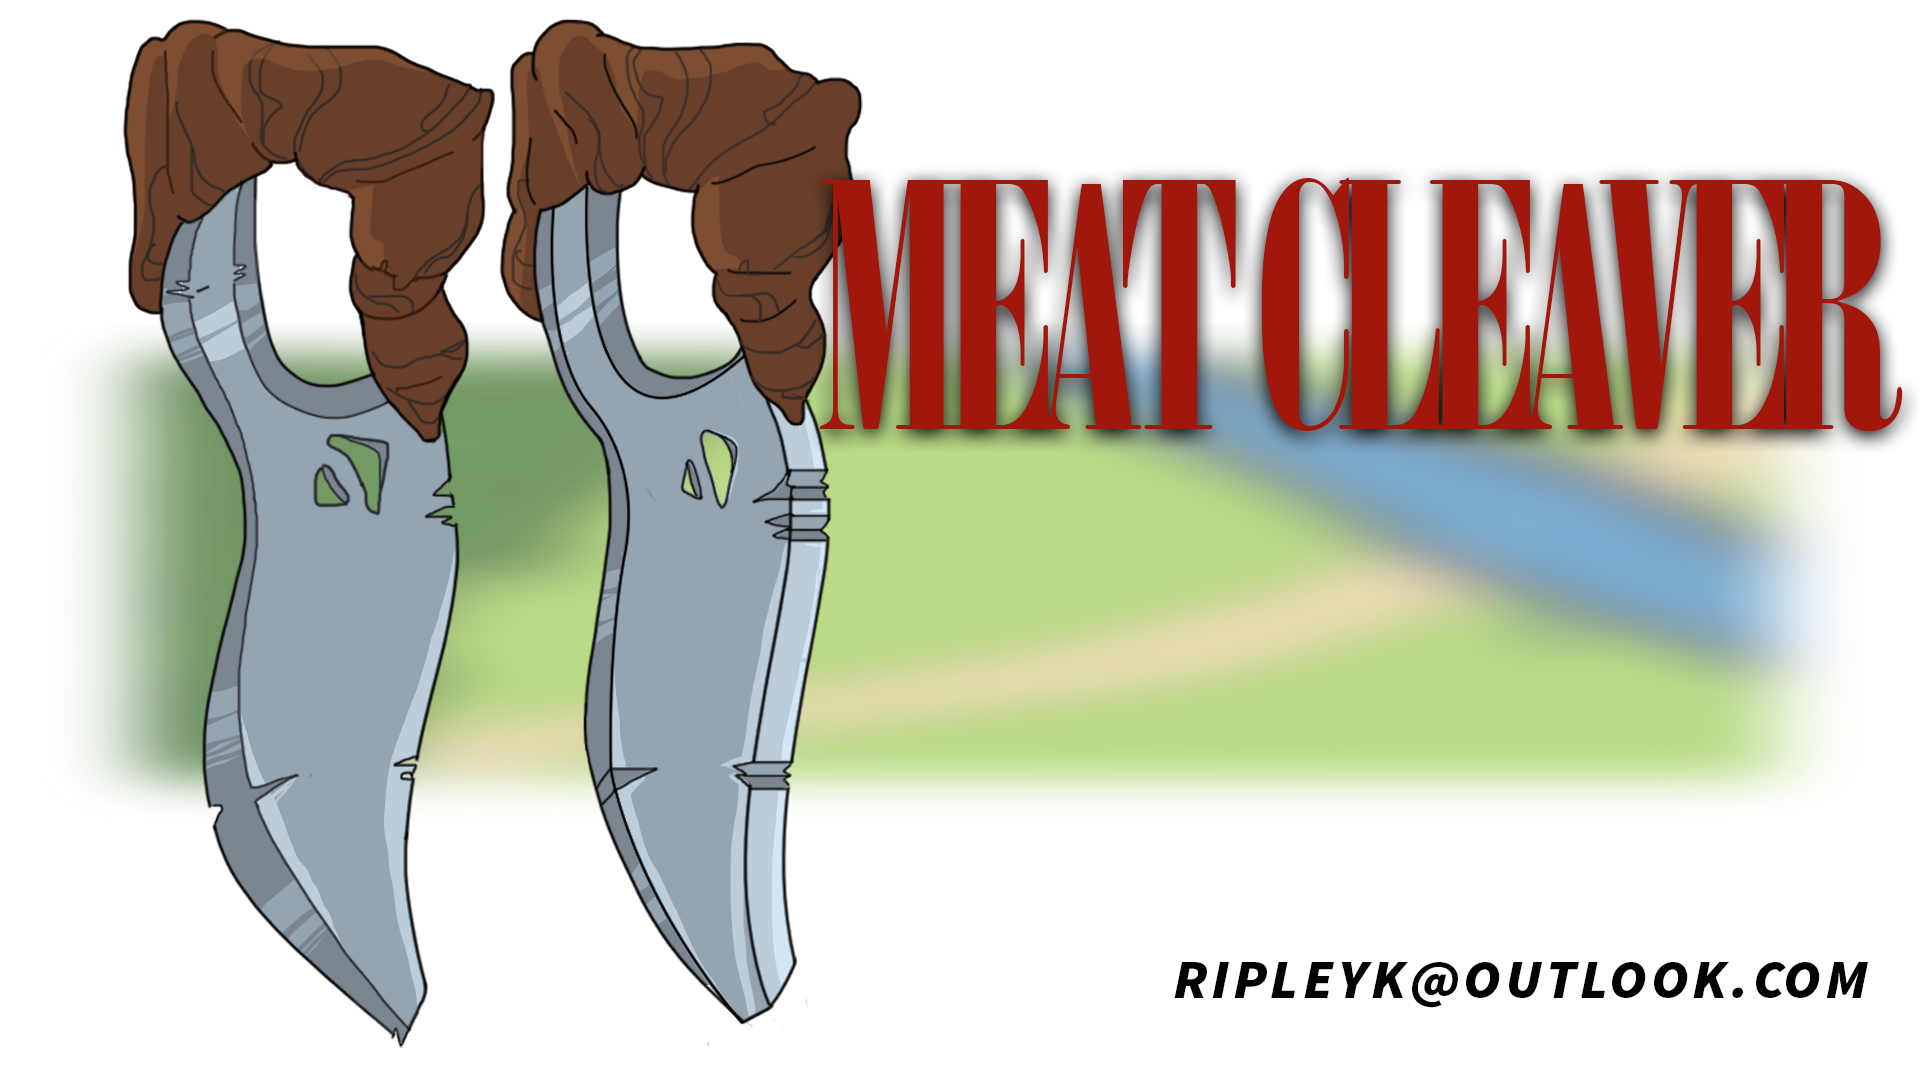
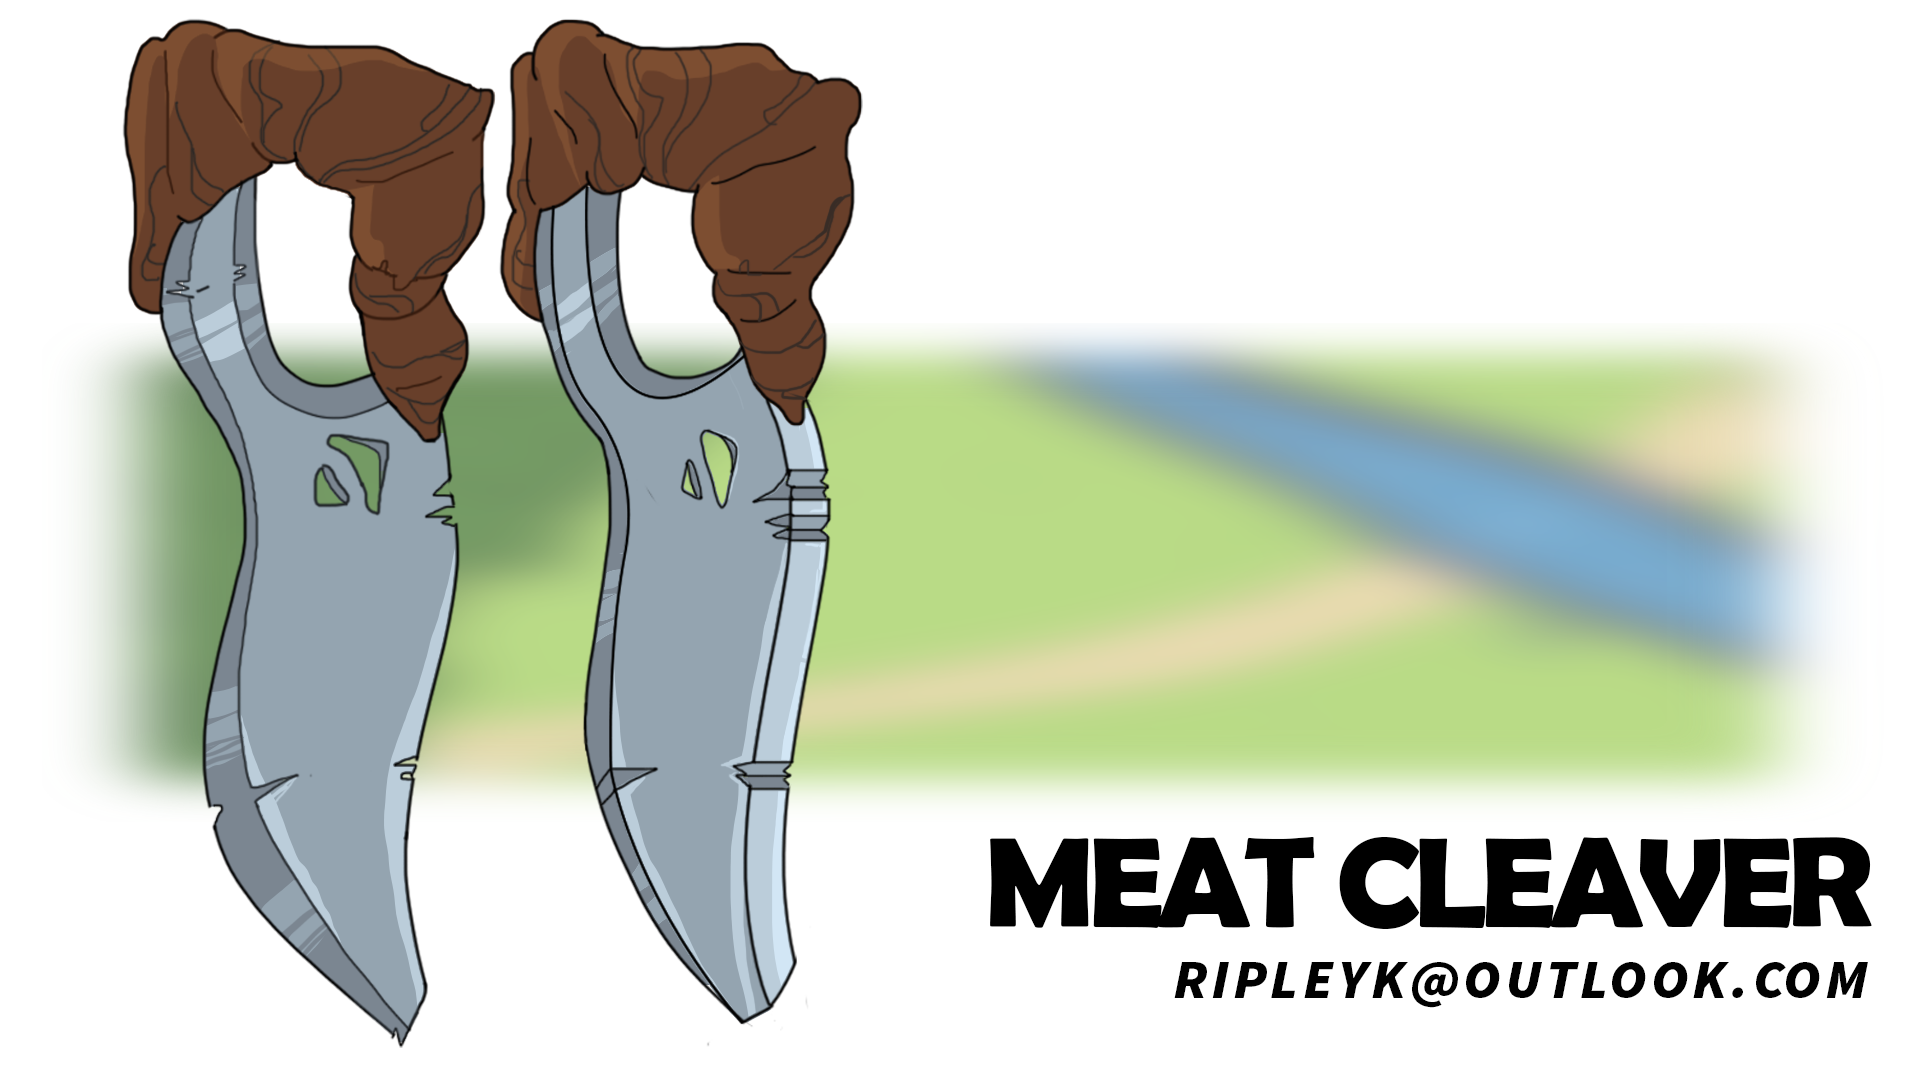
Adding tab titles/updating Portfolio
-added tab titles to each page
-added 3d model
-added muddy bus
-updated meatcleaver

Changed region(s): [[0.4062, 0.1528, 1.0, 0.4278], [0.5, 0.7639, 1.0, 0.8861]]

diff --git a/Ripley-bit/gallery.html b/Ripley-bit/gallery.html
@@ -1,6 +1,7 @@
 <!DOCTYPE html>
 <html lang="en" dir="ltr">
   <head>
+    <title>Ripley Portfolio Collection</title>
     <meta charset="utf-8">
     <meta name="viewport" content="width=device-width">
     <meta name="description" content="Lorem ipsum dolor sit amet, consectetur adipiscing elit, sed do eiusmod tempor incididunt ut labore et dolore magna aliqua. Ut enim ad minim veniam, quis nostrud exercitation ullamco laboris nisi ut aliquip ex ea commodo consequat. "

diff --git a/index.html b/index.html
@@ -1,6 +1,7 @@
 <!DOCTYPE html>
 <html lang="en" dir="ltr">
   <head>
+    <title>Ripley Artwork Professional Portfolio</title>
     <meta charset="utf-8">
     <meta name="viewport" content="width=device-width">
     <meta name="description" content="Ripley's portfolio page"

diff --git a/Ripley-bit/resume.html b/Ripley-bit/resume.html
@@ -1,6 +1,7 @@
 <!DOCTYPE html>
 <html lang="en" dir="ltr">
   <head>
+    <title>Ripley Resume Accomplishments </title>
     <meta charset="utf-8">
     <meta name="viewport" content="width=device-width">
     <meta name="description" content="About page"

diff --git a/Ripley-bit/FULLCREDITLIST.HTML b/Ripley-bit/FULLCREDITLIST.HTML
@@ -1,6 +1,7 @@
 <!DOCTYPE html>
 <html lang="en" dir="ltr">
   <head>
+     <title>Ripley Full Credit</title>
     <meta charset="utf-8">
     <meta name="viewport" content="width=device-width">
     <meta name="description" content="About page"

diff --git a/Ripley-bit/about.html b/Ripley-bit/about.html
@@ -1,6 +1,7 @@
 <!DOCTYPE html>
 <html lang="en" dir="ltr">
   <head>
+    <title>About the Artist</title>
     <meta charset="utf-8">
     <meta name="viewport" content="width=device-width">
     <meta name="description" content="About page"
